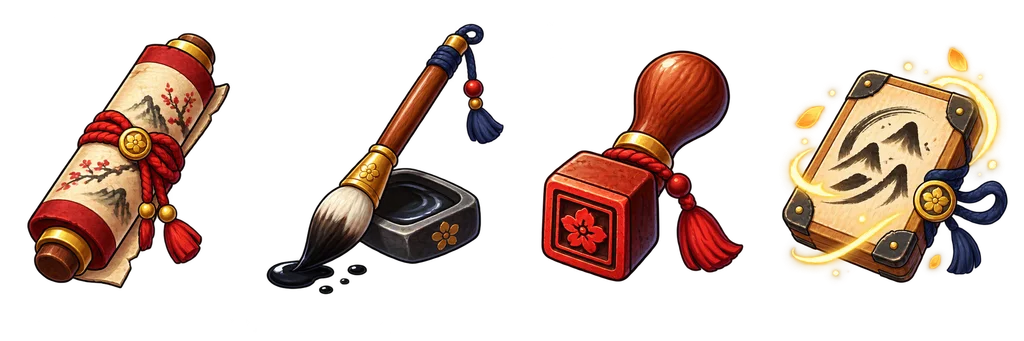
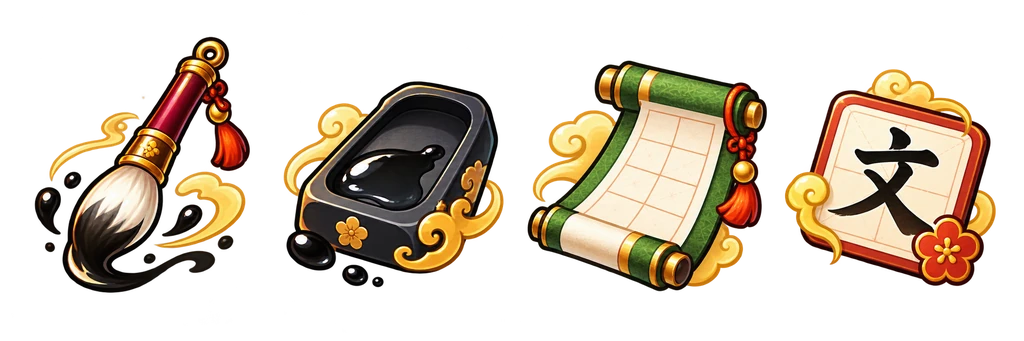
fix(修行アプリ): スマホでタップ後に残る :hover で、押していないカードが選ばれて見えるのを直す
- しゅぎょう・コースのカードの :hover の見た目を @media (hover:hover) に限る。
  スマホではタップした場所に :hover が残り、✓もスタートも付かないのに
  カードだけ選択中の見た目になって、スタートが押せない理由が分からなかった
- かんじ修行の忍具アイコンを新しい絵（筆・すずり・巻物・文）に差し替える
- かんじ修行のスマホ縦で消していた上のアイコンを、高さ680px超の画面では出す
  （メニューが段階式になり縦に余裕ができたため）

diff --git a/css/ninja-kids.css b/css/ninja-kids.css
@@ -271,9 +271,11 @@ body.ninja-space {
   box-shadow:0 3px 0 #c8ad7b;
   clip-path:polygon(7px 0,100% 0,100% calc(100% - 7px),calc(100% - 7px) 100%,0 100%,0 7px);
 }
-.ninja-kids :is(.tk-mode,.kj-choice,.kt-mode,.rj-mode,.pn-mode,.tk-choice):hover ,.ninja-kids :is(.tk-mode,.kk-choice,.kt-mode,.rj-mode,.pn-mode,.tk-choice):hover{
-  translate:0 -2px;
-  border-color:var(--nk-accent);
+@media (hover:hover) {
+  .ninja-kids :is(.tk-mode,.kj-choice,.kt-mode,.rj-mode,.pn-mode,.tk-choice):hover ,.ninja-kids :is(.tk-mode,.kk-choice,.kt-mode,.rj-mode,.pn-mode,.tk-choice):hover{
+    translate:0 -2px;
+    border-color:var(--nk-accent);
+  }
 }
 .ninja-kids :is(.tk-play,.kj-play,.kt-quiz,.rj-quiz,.pn-quiz) ,.ninja-kids :is(.tk-play,.kk-play,.kt-quiz,.rj-quiz,.pn-quiz){
   display:grid;
@@ -999,7 +1001,7 @@ body.ninja-space {
 
 /* Theme collectibles and choice icons. */
 body.ninja-tokei { --nk-items:url('/assets/images/ninja/items/tokei-items.webp'); }
-body.ninja-kanji { --nk-items:url('/assets/images/ninja/items/kanji-items.webp'); }
+body.ninja-kanji { --nk-items:url('/assets/images/ninja/items/kanji-items.webp?v=20260924'); }
 body.ninja-katakana { --nk-items:url('/assets/images/ninja/items/katakana-items.webp'); }
 body.ninja-romaji { --nk-items:url('/assets/images/ninja/items/romaji-items.webp'); }
 body.ninja-phonics { --nk-items:url('/assets/images/ninja/items/phonics-items.webp'); }
@@ -2187,7 +2189,7 @@ body.ninja-kuku { --nk-items:url('/assets/images/ninja/items/kuku-items.webp'); 
 .ninja-kids.ninja-kanji .kj-choice.is-jukken{ background:#2d3350; border-left-color:#e0b64a; box-shadow:0 5px 0 #171a2b; }
 .ninja-kids.ninja-kanji .kj-choice.is-jukken .kj-choice-label{ color:#ffd878; }
 .ninja-kids.ninja-kanji .kj-choice.is-jukken .kj-choice-note{ color:rgba(255,255,255,.72); }
-.ninja-kids.ninja-kanji .kj-choice.is-jukken:hover{ background:#373e61; }
+@media (hover:hover) { .ninja-kids.ninja-kanji .kj-choice.is-jukken:hover{ background:#373e61; } }
 .ninja-kids.ninja-kanji .kj-choice.is-jukken.is-on{ background:#3b4266; border-left-color:#ffd878; box-shadow:inset 0 0 0 2px #ffd878, 0 5px 0 #171a2b; }
 .ninja-kids.ninja-kanji .kj-choice.is-jukken.is-on::after{ color:#ffd878; }
 .ninja-kids.ninja-kanji .kj-choice.is-jukken.is-on .kj-choice-label{ color:#ffd878; }
@@ -3241,8 +3243,10 @@ body.ninja-kuku { --nk-items:url('/assets/images/ninja/items/kuku-items.webp'); 
     0 3px 0 #ddd2bf;
   transition:box-shadow .15s, translate .15s;
 }
-/* マウスをのせたときも、選んだときと同じ見た目にする（2026-09-23）。✓は選んだときだけ */
-.ninja-kids :is(.kj-menu .kj-choice:not(.is-jukken),.tk-menu .tk-choice,.kk-menu .kk-choice,.kt-mode,.rj-mode,.pn-mode):is(.is-on,:hover){
+/* マウスをのせたときも、選んだときと同じ見た目にする（2026-09-23）。✓は選んだときだけ。
+   :hover はマウスのある端末だけ（2026-09-24）。スマホはタップ後も :hover が残るため、
+   押していないカードが選ばれて見え、スタートが押せない理由が分からなくなっていた */
+.ninja-kids :is(.kj-menu .kj-choice:not(.is-jukken),.tk-menu .tk-choice,.kk-menu .kk-choice,.kt-mode,.rj-mode,.pn-mode).is-on{
   --nk-card-gold:rgba(200,156,64,.85);
   border-color:var(--nk-accent);
   background:
@@ -3255,6 +3259,22 @@ body.ninja-kuku { --nk-items:url('/assets/images/ninja/items/kuku-items.webp'); 
     inset 0 0 0 4px #fffdf8,
     inset 0 0 0 5px var(--nk-card-gold),
     0 3px 0 color-mix(in srgb,var(--nk-accent) 30%,#ddd2bf);
+}
+@media (hover:hover) {
+  .ninja-kids :is(.kj-menu .kj-choice:not(.is-jukken),.tk-menu .tk-choice,.kk-menu .kk-choice,.kt-mode,.rj-mode,.pn-mode):hover{
+    --nk-card-gold:rgba(200,156,64,.85);
+    border-color:var(--nk-accent);
+    background:
+      linear-gradient(180deg,color-mix(in srgb,var(--nk-accent) 18%,transparent) 0%,color-mix(in srgb,var(--nk-accent) 34%,transparent) 100%),
+      linear-gradient(rgba(255,253,248,.55),rgba(255,253,248,.55)),
+      var(--nk-card-pattern) center/64px 64px repeat,
+      #fffdf8;
+    box-shadow:
+      inset 0 0 0 2px var(--nk-accent),
+      inset 0 0 0 4px #fffdf8,
+      inset 0 0 0 5px var(--nk-card-gold),
+      0 3px 0 color-mix(in srgb,var(--nk-accent) 30%,#ddd2bf);
+  }
 }
 @media (prefers-reduced-motion:reduce) {
   .ninja-kids :is(.kj-menu .kj-choice:not(.is-jukken),.tk-menu .tk-choice,.kk-menu .kk-choice,.kt-mode,.rj-mode,.pn-mode):hover{ translate:none; }
@@ -3325,8 +3345,10 @@ body.ninja-kuku { --nk-items:url('/assets/images/ninja/items/kuku-items.webp'); 
   opacity:.45; filter:grayscale(.5); cursor:not-allowed; translate:none; box-shadow:none;
 }
 /* マウスをのせたときの文字色も、選んだときと同じにする（2026-09-23） */
-.ninja-kids :is(.kj-menu .kj-choice:not(.is-jukken),.tk-menu .tk-choice,.kk-menu .kk-choice,.kt-mode,.rj-mode,.pn-mode):hover :is(.kj-choice-label,.tk-choice-label,.kk-choice-label,.kt-choice-label){
-  color:var(--nk-accent-dark);
+@media (hover:hover) {
+  .ninja-kids :is(.kj-menu .kj-choice:not(.is-jukken),.tk-menu .tk-choice,.kk-menu .kk-choice,.kt-mode,.rj-mode,.pn-mode):hover :is(.kj-choice-label,.tk-choice-label,.kk-choice-label,.kt-choice-label){
+    color:var(--nk-accent-dark);
+  }
 }
 /* こたえの選択肢も、マウスをのせたら枠全体を修行の色にする（2026-09-23） */
 @media (hover:hover) {

diff --git a/css/kanji.css b/css/kanji.css
@@ -62,7 +62,7 @@ body{
   background:#fff;border:2px solid var(--kj-line2);border-radius:14px;
   padding:14px 10px;cursor:pointer;font-family:inherit;color:var(--kj-ink);
 }
-.kj-choice:hover{border-color:var(--kj-orange)}
+@media (hover:hover){.kj-choice:hover{border-color:var(--kj-orange)}}
 .kj-choice.is-on{border-color:var(--kj-orange);background:#fff6e9;box-shadow:0 2px 0 var(--kj-orange-dk)}
 .kj-choice-label{font-size:16px;font-weight:800}
 .kj-choice-note{font-size:11px;color:var(--kj-ink3)}
@@ -160,9 +160,13 @@ body.ninja-kids .kj-opt.is-xlong .nk-answer-label{font-size:.7em}
 /* 学年が4段になったぶん、スマホ縦と寝かせた画面では1画面に収まらなくなる。
    学年ボタンの字数の注記（80じ など）は選ぶのに要らないので隠して薄くする（かけざんの だん と同じ）。
    ninja-kids.css はこのファイルより後に読まれるので、body を付けて詳細度で勝たせる */
-@media (max-width:767px) and (orientation:portrait){
+/* 上の忍具アイコンは、高さの低いスマホ（680px以下）だけ隠す（2026-09-24）。
+   メニューが段階式になって縦に余裕ができたので、ふつうの高さなら出しても1画面に収まる */
+@media (max-width:767px) and (orientation:portrait) and (max-height:680px){
   body.ninja-kids.ninja-kanji .kj-menu{padding-top:12px}
   body.ninja-kids.ninja-kanji .kj-menu::before{content:none}
+}
+@media (max-width:767px) and (orientation:portrait){
   body.ninja-kids.ninja-kanji .kj-choices-grade{gap:5px}
   body.ninja-kids.ninja-kanji .kj-group{margin-bottom:4px}
   body.ninja-kids.ninja-kanji .kj-choices-grade .kj-choice{min-height:42px;padding-block:4px}

diff --git a/css/ninja-landing.css b/css/ninja-landing.css
@@ -323,7 +323,7 @@ body.ninja-lp-space {
 
 /* Collectible item art for themed landing cards. */
 body.ninja-lp-tokei { --nl-items:url('/assets/images/ninja/items/tokei-items.webp'); }
-body.ninja-lp-kanji { --nl-items:url('/assets/images/ninja/items/kanji-items.webp'); }
+body.ninja-lp-kanji { --nl-items:url('/assets/images/ninja/items/kanji-items.webp?v=20260924'); }
 body.ninja-lp-katakana { --nl-items:url('/assets/images/ninja/items/katakana-items.webp'); }
 body.ninja-lp-romaji { --nl-items:url('/assets/images/ninja/items/romaji-items.webp'); }
 body.ninja-lp-phonics { --nl-items:url('/assets/images/ninja/items/phonics-items.webp'); }

diff --git a/css/kuku.css b/css/kuku.css
@@ -57,7 +57,7 @@ body{margin:0;color:var(--kk-ink)}
   background:#fff;border:2px solid var(--kk-line2);border-radius:14px;
   padding:14px 10px;cursor:pointer;font-family:inherit;color:var(--kk-ink);
 }
-.kk-choice:hover{border-color:var(--kk-blue)}
+@media (hover:hover){.kk-choice:hover{border-color:var(--kk-blue)}}
 .kk-choice.is-on{border-color:var(--kk-blue);background:#eef5fc;box-shadow:0 2px 0 var(--kk-blue-dk)}
 .kk-choice-label{font-size:16px;font-weight:800}
 .kk-choice-note{font-size:11px;color:var(--kk-ink3)}

diff --git a/css/tokei.css b/css/tokei.css
@@ -68,7 +68,7 @@ body{
   background:#fff;border:2px solid var(--tk-line2);border-radius:14px;
   padding:14px 12px;cursor:pointer;font-family:inherit;color:var(--tk-ink);
 }
-.tk-choice:hover{border-color:var(--tk-orange)}
+@media (hover:hover){.tk-choice:hover{border-color:var(--tk-orange)}}
 .tk-choice.is-on{border-color:var(--tk-orange);background:#fff6e9;box-shadow:0 2px 0 var(--tk-orange-dk)}
 .tk-choice-label{font-size:16px;font-weight:800}
 .tk-choice-note{font-size:11px;color:var(--tk-ink3)}

diff --git a/tools/katakana/index.html b/tools/katakana/index.html
@@ -46,8 +46,8 @@
 <link rel="icon" type="image/svg+xml" href="/assets/icons/favicon.svg">
 <link rel="stylesheet" href="/css/common.css">
 <link rel="stylesheet" href="/css/app-reference.css">
-<link rel="stylesheet" href="/css/katakana.css?v=20260923c">
-<link rel="stylesheet" href="/css/ninja-kids.css?v=20260924b">
+<link rel="stylesheet" href="/css/katakana.css?v=20260924c">
+<link rel="stylesheet" href="/css/ninja-kids.css?v=20260924c">
 </head>
 <body class="ninja-kids ninja-katakana">
 

diff --git a/tools/phonics/index.html b/tools/phonics/index.html
@@ -46,8 +46,8 @@
 <link rel="icon" type="image/svg+xml" href="/assets/icons/favicon.svg">
 <link rel="stylesheet" href="/css/common.css">
 <link rel="stylesheet" href="/css/app-reference.css">
-<link rel="stylesheet" href="/css/phonics.css?v=20260923c">
-<link rel="stylesheet" href="/css/ninja-kids.css?v=20260924b">
+<link rel="stylesheet" href="/css/phonics.css?v=20260924c">
+<link rel="stylesheet" href="/css/ninja-kids.css?v=20260924c">
 </head>
 <body class="ninja-kids ninja-phonics">
 

diff --git a/tools/romaji/index.html b/tools/romaji/index.html
@@ -46,8 +46,8 @@
 <link rel="icon" type="image/svg+xml" href="/assets/icons/favicon.svg">
 <link rel="stylesheet" href="/css/common.css">
 <link rel="stylesheet" href="/css/app-reference.css">
-<link rel="stylesheet" href="/css/romaji.css?v=20260923c">
-<link rel="stylesheet" href="/css/ninja-kids.css?v=20260924b">
+<link rel="stylesheet" href="/css/romaji.css?v=20260924c">
+<link rel="stylesheet" href="/css/ninja-kids.css?v=20260924c">
 </head>
 <body class="ninja-kids ninja-romaji">
 

diff --git a/tools/kanji/index.html b/tools/kanji/index.html
@@ -46,8 +46,8 @@
 <link rel="icon" type="image/svg+xml" href="/assets/icons/favicon.svg">
 <link rel="stylesheet" href="/css/common.css">
 <link rel="stylesheet" href="/css/app-reference.css">
-<link rel="stylesheet" href="/css/kanji.css?v=20260923c">
-<link rel="stylesheet" href="/css/ninja-kids.css?v=20260924b">
+<link rel="stylesheet" href="/css/kanji.css?v=20260924c">
+<link rel="stylesheet" href="/css/ninja-kids.css?v=20260924c">
 </head>
 <body class="ninja-kids ninja-kanji">
 

diff --git a/tools/tokei/index.html b/tools/tokei/index.html
@@ -46,8 +46,8 @@
 <link rel="icon" type="image/svg+xml" href="/assets/icons/favicon.svg">
 <link rel="stylesheet" href="/css/common.css">
 <link rel="stylesheet" href="/css/app-reference.css">
-<link rel="stylesheet" href="/css/tokei.css?v=20260923c">
-<link rel="stylesheet" href="/css/ninja-kids.css?v=20260924b">
+<link rel="stylesheet" href="/css/tokei.css?v=20260924c">
+<link rel="stylesheet" href="/css/ninja-kids.css?v=20260924c">
 </head>
 <body class="ninja-kids ninja-tokei">
 

diff --git a/css/katakana.css b/css/katakana.css
@@ -63,7 +63,7 @@ body{
   padding:14px 18px;border:2px solid var(--kt-line2);border-radius:14px;
   background:#fff;cursor:pointer;font-family:inherit;transition:border-color .15s,transform .15s;
 }
-.kt-mode:hover{border-color:var(--kt-orange);transform:translateY(-2px)}
+@media (hover:hover){.kt-mode:hover{border-color:var(--kt-orange);transform:translateY(-2px)}}
 .kt-mode-t{font-size:19px;font-weight:900;letter-spacing:.06em}
 .kt-mode-s{font-size:12.5px;color:var(--kt-ink2)}
 

diff --git a/css/phonics.css b/css/phonics.css
@@ -63,7 +63,7 @@ body{
   padding:14px 18px;border:2px solid var(--pn-line2);border-radius:14px;
   background:#fff;cursor:pointer;font-family:inherit;transition:border-color .15s,transform .15s;
 }
-.pn-mode:hover{border-color:var(--pn-orange);transform:translateY(-2px)}
+@media (hover:hover){.pn-mode:hover{border-color:var(--pn-orange);transform:translateY(-2px)}}
 .pn-mode-t{font-size:19px;font-weight:900;letter-spacing:.06em}
 .pn-mode-s{font-size:12.5px;color:var(--pn-ink2)}
 
